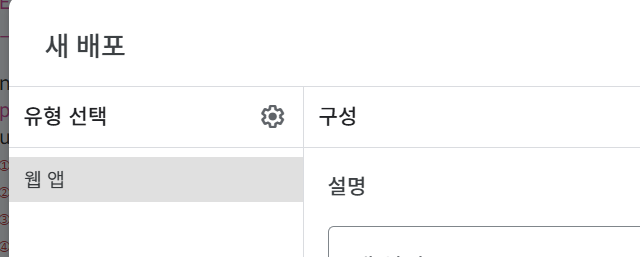
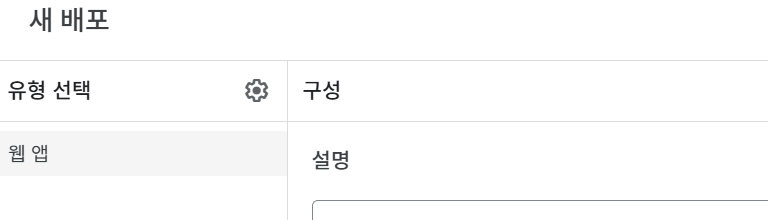
처음설정가이드 3단계 3번 그림 교체 및 크기 축소

diff --git a/처음설정가이드.html b/처음설정가이드.html
@@ -223,7 +223,7 @@
           <li>왼쪽 위 톱니바퀴(⚙) → <strong>웹 앱</strong>을 선택합니다.
             <figure style="margin:12px 0 0;">
               <img src="./asset/guide-step3-webapp.png" alt="새 배포 창에서 유형 선택 → 웹 앱 선택"
-                style="width:100%;max-width:520px;border:1px solid #e8e4d6;border-radius:12px;background:#fff;display:block;" />
+                style="width:100%;max-width:400px;border:1px solid #e8e4d6;border-radius:12px;background:#fff;display:block;" />
             </figure>
           </li>
           <li>설명란에 <code>v1</code>을 입력합니다.</li>
